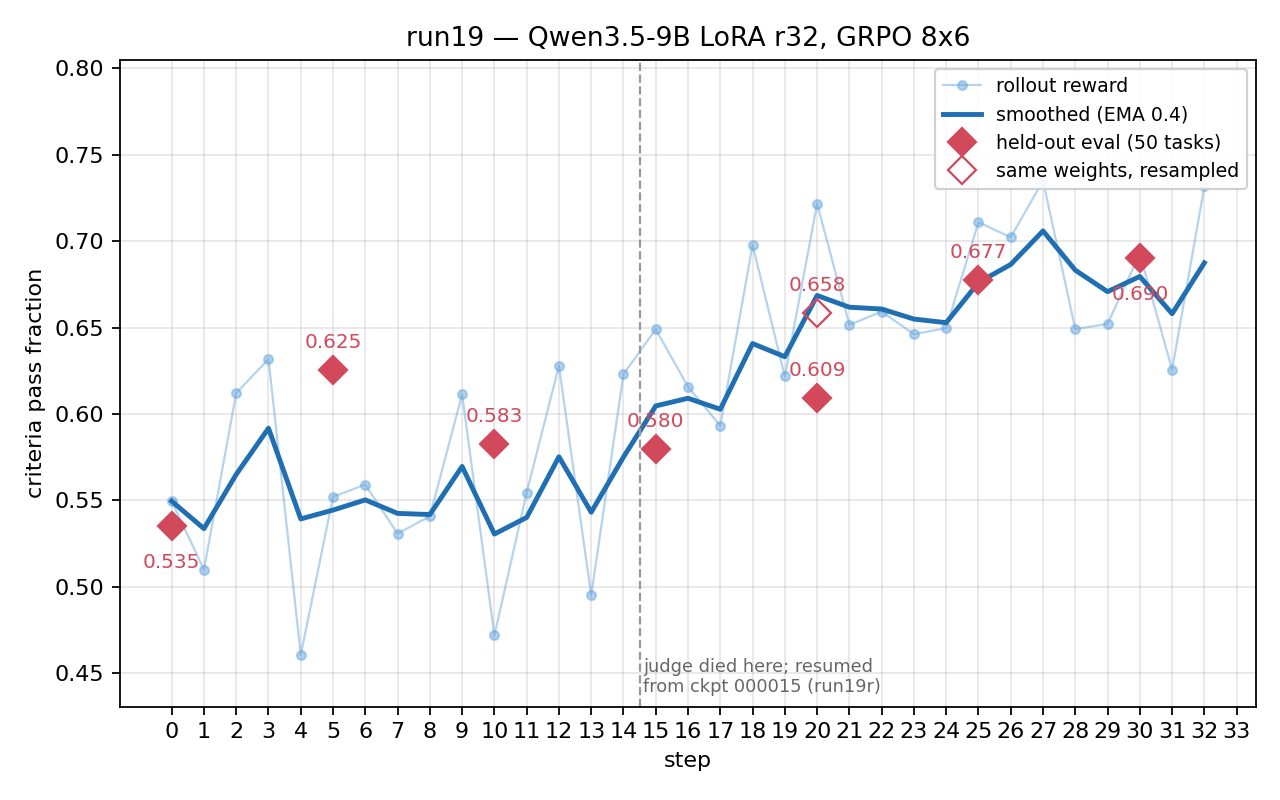
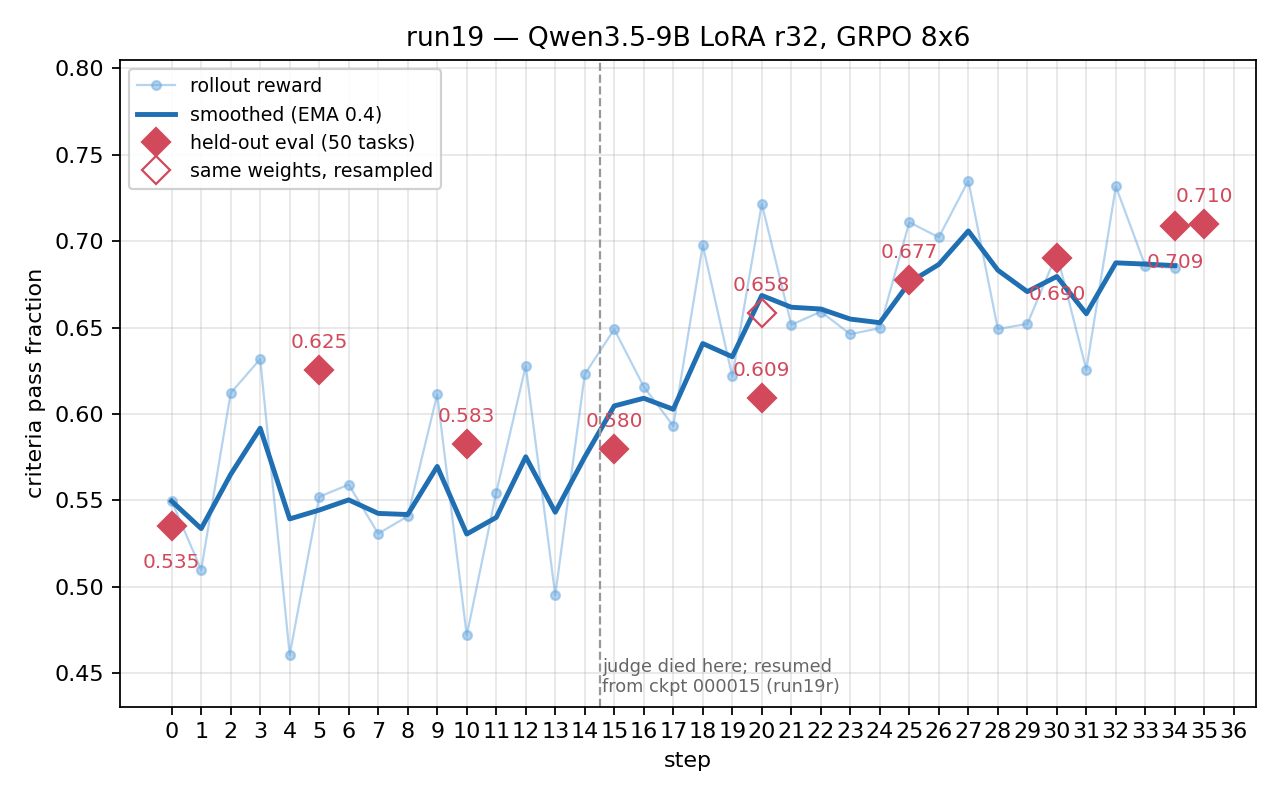
Finish the run19 report: final eval, convergence, noise-floor retraction
The run completed at 35 batches. Two tail evals are now in the table: the
cookbook's last-batch eval (34, 0.7088) and run_final_eval on the saved `final`
checkpoint (35, 0.7098). Headline 0.7098, from 0.5351 at step 0.

Adds a Convergence section. All the gain lands in steps 14-21; the last 15
steps slope +0.0007/step against a per-step sd of 0.034. Records that grad_norm
is a batch-difficulty readout here, not a convergence signal
(corr(grad_norm, reward) = -0.47), and is worth keeping only as the dead-judge
alarm. Train and held-out track each other to +0.003 mean gap, so nothing is
being memorised and the train curve is a usable proxy.

Retracts the "+/-0.05 noise floor" claim. It rested on one replicate pair
(0.658/0.609); steps 34 and 35 are a second pair one update apart and differ by
0.001. One draw cannot estimate a variance, so the report now says the spread
is unknown and under 0.05, and queues measuring it properly.

plot.py keeps both tail evals instead of dropping anything off the eval_every
grid, and the legend moves clear of the peak.

Changed region(s): [[0.125, 0.0938, 0.9688, 0.8438], [0.1562, 0.8125, 0.9688, 0.9375], [0.0938, 0.0938, 0.3438, 0.25]]

diff --git a/docs/reports/run19/plot.py b/docs/reports/run19/plot.py
@@ -48,12 +48,18 @@ by_iter = {}
 for line in open(os.path.join(HERE, "eval_episodes.jsonl")):
     e = json.loads(line)
     keep = dict(RUNS)[e["run"]]
-    # run_final_eval drops an extra summary at the last completed batch; the
-    # real held-out points are the eval_every ones
-    if not keep(e["iter"]) or e["iter"] % EVAL_EVERY:
+    if not keep(e["iter"]):
         continue
     by_iter.setdefault(e["iter"], []).append(e["metrics"].get("lab/criteria_pass_fraction", 0.0))
+# Two evals land off the eval_every grid at the end, and both are real: the
+# cookbook fires one at the last batch (i_batch == end_batch - 1), then
+# train.py's run_final_eval scores the saved `final` checkpoint one update
+# later. Keep the grid points and that tail; anything else off-grid is an
+# artefact of a crashed run.
+last_step = max(steps) if steps else 0
 for it, cpf in by_iter.items():
+    if it % EVAL_EVERY and it < last_step:
+        continue
     evals[it] = sum(cpf) / len(cpf)
 
 x = sorted(steps)
@@ -73,9 +79,11 @@ ax.plot(ex, ey, "D", color="#d1495b", ms=9, label="held-out eval (50 tasks)", zo
 ax.plot(ex2, ey2, "D", color="#d1495b", ms=9, mfc="none", zorder=5,
         label="same weights, resampled")
 for i, v in zip(ex + ex2, ey + ey2):
-    # duck under the rollout line where it sits just above the diamond
+    # duck under the rollout line where it sits just above the diamond, and
+    # under an eval that sits one step to the right (the 34/35 tail pair)
     near = [b for a, b in zip(x, y) if a == i]
     below = bool(near) and 0 < near[0] - v < 0.03
+    below = below or (i + 1) in evals
     ax.annotate("%.3f" % v, (i, v), textcoords="offset points",
                 xytext=(0, -19 if below else 10), ha="center", color="#d1495b", fontsize=9)
 
@@ -92,7 +100,7 @@ ax.set_ylabel("criteria pass fraction")
 ax.set_title("run19 — Qwen3.5-9B LoRA r32, GRPO 8x6")
 ax.set_xticks(range(0, max(max(x), max(ex)) + 2))
 ax.grid(alpha=0.3)
-ax.legend(loc="upper right", fontsize=8.5, framealpha=0.9)
+ax.legend(loc="upper left", fontsize=8.5, framealpha=0.9)
 fig.tight_layout()
 out = os.path.join(HERE, "run19.png")
 fig.savefig(out, dpi=160)

diff --git a/docs/reports/run19/README.md b/docs/reports/run19/README.md
@@ -27,10 +27,61 @@ max_tokens=32768  max_trajectory_tokens=163840  max_tool_result_tokens=16384
 | 20 | 0.6090 | 0.6767 | 45 | 3 | 2 |
 | 25 | 0.6774 | 0.7056 | 48 | 1 | 1 |
 | 30 | 0.6903 | 0.7344 | 47 | 2 | 1 |
+| 34 | 0.7088 | 0.7383 | 48 | 2 | 0 |
+| 35 | 0.7098 | 0.7394 | 48 | 1 | 1 |
 
 `criteria_pass_fraction` averages over all 50 tasks and scores a failed episode
 0. `rubric_reward` averages only over the episodes the judge graded, so it
 hides completion failures. Quote the former.
+
+The last two rows are both real and both off the `eval_every` grid. The
+cookbook fires an eval at the last batch (`i_batch == end_batch - 1`, so 34),
+and `train.py`'s `run_final_eval` then scores the saved `final` checkpoint one
+update later (logged as batch 35). **Headline number: 0.7098**, or 0.7093
+pooled over all 100 tail episodes.
+
+## Convergence
+
+The run is done improving at this configuration.
+
+| steps | rollout reward | grad_norm | entropy |
+|---|---:|---:|---:|
+| 0-6 | 0.554 | 1793 | 0.460 |
+| 7-13 | 0.548 | 1728 | 0.473 |
+| 14-20 | 0.646 | 1474 | 0.423 |
+| 21-27 | 0.679 | 1144 | 0.422 |
+| 28-34 | 0.675 | 1676 | 0.416 |
+
+All of the gain lands in steps 14-21. Over the last 15 steps the reward slope
+is **+0.0007/step against a per-step sd of 0.034** — 1/50th of the noise — and
+over the last 10 it is negative. The final update moved the eval by +0.001.
+
+`grad_norm` is not a convergence signal here and should not be read as one. In
+GRPO the gradient scale is set by within-group advantage dispersion, so it
+measures batch difficulty: `corr(grad_norm, reward) = -0.47`,
+`corr(grad_norm, graded) = -0.60`. The smallest gradients in the run are its
+easiest batches (step 27: 510 at reward 0.735). It is useful as an *alarm* —
+the 119-277 values during the dead-judge steps are the signature of a constant
+reward flattening every advantage, and that is worth alerting on.
+
+Entropy is the better read: one compression around steps 14-20 (0.47 → 0.42),
+flat since, with the step-to-step spread halving (0.043 → 0.020). Settled, not
+collapsed.
+
+Train and held-out track each other one-for-one — mean gap across the eight
+checkpoints is **+0.003** (sd 0.068, entirely the two estimators' own noise),
+and −0.008 / −0.026 / −0.008 at steps 25/30/34. Nothing is being memorised from
+the training batches, and the train curve is a usable proxy for held-out at
+1/5th the latency.
+
+More steps will not help. The dataset caps it anyway: 300 train tasks at
+batch_size 8 is `ceil(300/8) = 38` batches, and `end_batch = min(max_steps,
+num_batches)`, so `max_steps=40` silently clamps to 38. Those 3 unused batches
+(tasks 280-299) are unseen and safe to train on — `get_batch` is a plain slice
+with no wraparound or reshuffle — but the last is partial (4 groups) and 3
+steps is far inside the noise. Going past 38 needs `train_tasks=320`, and that
+moves `eval_names = shuffled[num_train : num_train + num_eval]` to `[320:370]`,
+i.e. **a different benchmark**. Don't.
 
 ## Two things that will mislead you in the raw data
 
@@ -45,13 +96,22 @@ resumed from checkpoint `000015` (weights + optimizer state) against a healthy
 judge and replayed them, with byte-identical hyperparameters. **Steps 0-14 come
 from run19, 15+ from run19r.** The judge now runs under a respawn loop.
 
-**The eval has a ±0.05 noise floor.** Resuming past step 20 re-ran that eval
-over the same `final` weights and overwrote the file: 0.6584 first time, 0.6090
-second. Same weights, same 50 tasks. Both readings are on the plot (filled vs
-open diamond); pooled over the 100 episodes the checkpoint is 0.634. Most
-step-to-step movement in the eval column is inside that band — the 0.625 → 0.583
+**The eval is noisy and we still don't know how noisy.** Resuming past step 20
+re-ran that eval over the same `final` weights and overwrote the file: 0.6584
+first time, 0.6090 second. Same weights, same 50 tasks, spread **0.049**. Both
+readings are on the plot (filled vs open diamond); pooled over the 100 episodes
+that checkpoint is 0.634.
+
+That single pair was the basis for a "±0.05 noise floor" claim earlier in this
+report's history, and the end of the run undercut it: steps 34 and 35 are one
+update apart and landed **0.001** apart (0.7088, 0.7098). Two replicate pairs,
+spreads differing by 50×. One draw cannot estimate a variance, and 0.049 may
+simply have been an unlucky one. The defensible statement is that the spread is
+*unknown and bounded somewhere under 0.05*, which is still wide enough to
+swallow most step-to-step movement in the eval column — the 0.625 → 0.583
 "regression" at step 10 that triggered a whole investigation was 0.04. One
-rollout per task is too few; use 2-3 next time.
+rollout per task is too few to tell. Use 2-3 next time and measure this
+properly instead of inferring it from accidents.
 
 ## What the eval column actually measured
 
@@ -83,18 +143,28 @@ do is teach *when* to stop reading, because the budget is never shown to the
 model and the penalty has no slope.
 
 Extending the run resolved it without any intervention. Overflow across evals:
-4, 1, 5, 6, 3, 1, 2 — the tail stopped hitting the wall on its own by step 25,
-and rubric quality and completion rate rose together instead of trading off.
+4, 1, 5, 6, 3, 1, 2, 2, 1 — the tail stopped hitting the wall on its own by
+step 25, and rubric quality and completion rate rose together instead of
+trading off. By the final eval, 48 of 50 episodes complete and get graded, with
+one overflow and one no-output left. No compaction, no prompt change, no budget
+signal in the observation — RL alone closed it.
 
 ## Queued for the next run
 
 * Expose remaining context budget in the observation. The model cannot learn a
   stopping policy conditioned on a variable it cannot see.
-* 2-3 eval rollouts per task, so the signal clears the noise floor.
+* 2-3 eval rollouts per task, so the signal clears the noise floor — and so the
+  floor itself is measured rather than guessed from two accidental replicates.
 * Abort a step on `lab/reward_error` or an all-zero batch. Five steps trained on
-  a dead judge before anyone noticed.
+  a dead judge before anyone noticed. `grad_norm` collapsing an order of
+  magnitude is the cheapest available detector.
 * Optional, if the tail returns: `max_trajectory_tokens` 163840 → 262144, and
   `max_tool_result_tokens` well below 16384.
+* Not more steps. The run converged by step 21 and the dataset caps at 38
+  batches; see Convergence above.
+* Capacity, if a bigger jump is wanted: LoRA rank above 32. Entropy at 0.42 says
+  there is exploration left, so the ceiling looks like capacity or missing
+  signal rather than optimisation.
 
 ## Contents
 
@@ -121,16 +191,27 @@ Not committed — the repo keeps run data out of git (`.gitignore` line 60,
 | `evals/<run>-<iter>.jsonl.gz` | held-out rollout transcripts, full fidelity |
 | `train_episodes.jsonl.gz` | training rollouts, slim: every metric kept, each assistant message and tool result reduced to its length plus a 240-char head. Preserves the overflow, tool-volume, churn and error analyses at ~2% of raw size. |
 
-Both rebuild from the mirror. The full 1.1 GB mirror — including
+Both rebuild from the mirror. The full 1.2 GB mirror — including
 `train_rollout_summaries.jsonl`, `*_logtree.json` and the rendered `*.html`
-viewers — is at `~/open-rl-runs/harvey-labs/`, pulled off the h200 spot
-instance on 2026-08-10. **That is currently the only copy off the spot boxes.**
+viewers — lives in three places, none of them a spot instance:
 
-Refresh after the job finishes:
+| where | what |
+|---|---|
+| `gs://open-rl-runs/harvey-labs/` | project `open-rl`, us-east7 |
+| `ShubyM/dump` @ `artifacts/harvey-labs/run19{,r}` | browsable, `logs.log` gzipped there (`*.log` is ignored) |
+| `~/open-rl-runs/harvey-labs/` | laptop working copy |
+
+The h200 and b200 boxes are spot instances and are not a copy. The h200's
+service account has no storage scope, so the GCS push has to run from the
+laptop.
+
+Rebuild everything from the mirror:
 
 ```
 ssh h200 'tar -C ~/open-rl/artifacts -czf - harvey-labs/run19 harvey-labs/run19r' \
   | tar -C ~/open-rl-runs -xzf -
-python docs/reports/run19/build.py
-python docs/reports/run19/plot.py
+python docs/reports/run19/build.py       # -> meta/, eval_episodes.jsonl, evals/
+python docs/reports/run19/plot.py        # -> run19.png
+cd ~/open-rl-runs && gcloud storage rsync -r --project=open-rl \
+  harvey-labs gs://open-rl-runs/harvey-labs
 ```
